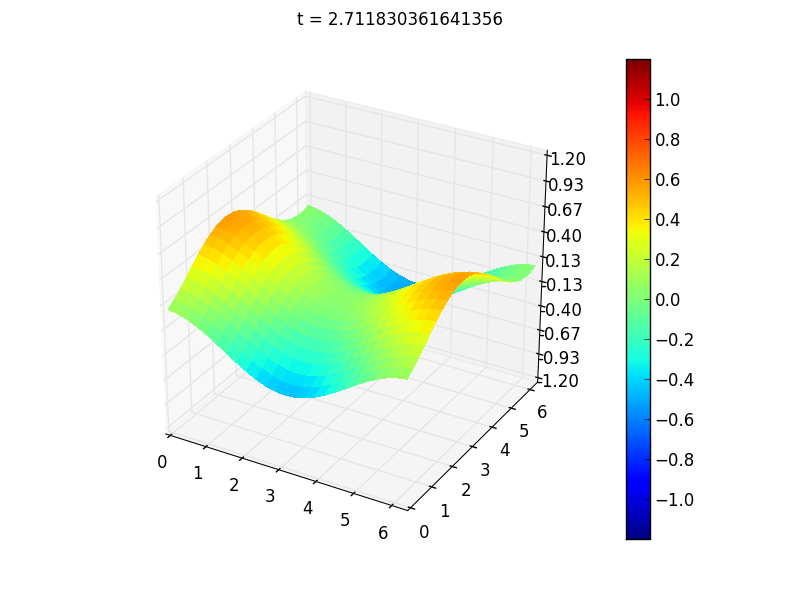
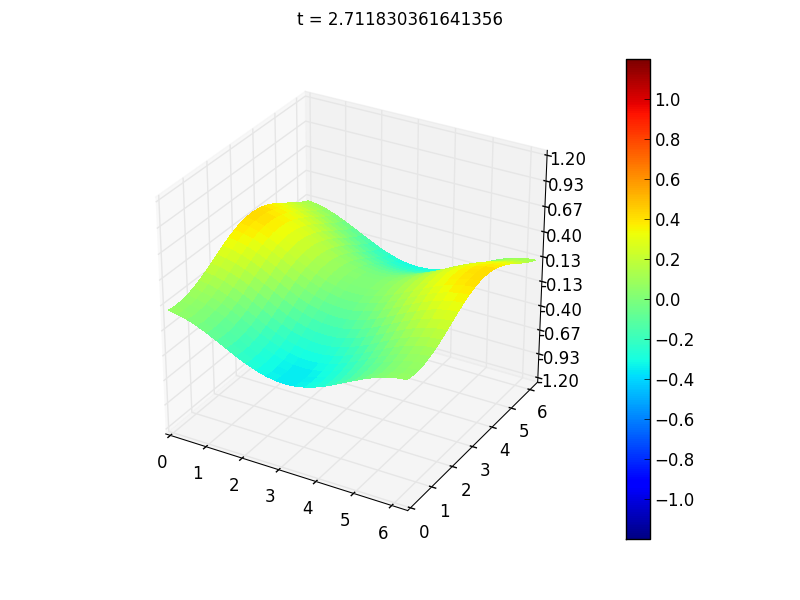
There is an error in the code

Changed region(s): [[0.2188, 0.33, 0.6875, 0.66]]

diff --git a/2DAdvDiffEq.py b/2DAdvDiffEq.py
@@ -16,6 +16,54 @@ import errno
 ## IC u[x,y,0]=cos(x)+sin(y) 
 
 ##
+##################################################################################################################
+############################			Useful functions		      ############################
+##################################################################################################################
+## Create a one row vector from the matrix u_arr
+def matrixToVec(u,nx,ny):
+	u_vec = [0 for i in xrange(ny*nx)]
+	for i in range(0,nx):
+		for j in range(0,ny):
+			u_vec[i*ny+j] = u[i][j]
+		
+    	return u_vec
+
+## Reverse
+def vecToMatrix(u,nx,ny):
+	Umat=[[0 for i in xrange(ny)] for i in xrange(nx)]
+	for i in range(0,nx):
+		for j in range(0,ny):
+			Umat[i][j]=u[i*ny+j]
+    	return Umat
+def iCond(x,y):
+    return .5*cos(x) + .5*cos(y)
+
+
+#plot figure
+def plotFig(u_arr,numb,t):
+	fig = plt.figure()
+	ax = fig.gca(projection='3d')
+	X = np.arange(0, L+dx, dx)
+	Y = np.arange(0, L+dy, dy)
+	X, Y = np.meshgrid(X, Y)
+	R = np.sqrt(X**2 + Y**2)
+	Z = np.sin(R)
+	v = np.linspace(-1.2, 1.2, 15, endpoint=True)
+	surf = ax.plot_surface(X, Y, u_arr,v, rstride=1, cstride=1,cmap=cm.jet,
+ 	       linewidth=0, antialiased=False, vmin=zmin, vmax=zmax)
+	ax.set_zlim(zmin, zmax)
+	ax.set_xlim(0, L)
+	ax.set_ylim(0, L)
+	ax.zaxis.set_major_locator(LinearLocator(10))
+	ax.zaxis.set_major_formatter(FormatStrFormatter('%.02f'))
+	
+	fig.colorbar(surf, ticks=[-1,-0.8,-0.6, -0.4,-0.2, 0, 0.2,0.4,0.6,0.8, 1])
+	fig.suptitle('t = '+ repr(t)) 
+	plt.savefig(directory +'/t'+'%0*d' % (3, numb)+'.png')
+
+##################################################################################################################
+############################			Useful functions		      ############################
+##################################################################################################################
 
 directory='result'
 if not os.path.exists(directory):
@@ -58,9 +106,6 @@ s = 'The resolution is ' + repr(dx) + 'in the x direction and ' + repr(dy) + 'in
 print s
 
 ## Initial conditions
-def iCond(x,y):
-    return .5*cos(x) + .5*cos(y)
-
 uval = iCond(0,0)
 u_arr = [[0 for i in xrange(Ny)] for i in xrange(Nx)]
 
@@ -70,80 +115,44 @@ for i in range(0,Nx):
     		uval = iCond(i*dx,j*dy)
     		u_arr[i][j] = uval
 
-#plot figure
-def plotFig(u_arr,numb,t):
-	fig = plt.figure()
-	ax = fig.gca(projection='3d')
-	X = np.arange(0, L+dx, dx)
-	Y = np.arange(0, L+dy, dy)
-	X, Y = np.meshgrid(X, Y)
-	R = np.sqrt(X**2 + Y**2)
-	Z = np.sin(R)
-	v = np.linspace(-1.2, 1.2, 15, endpoint=True)
-	surf = ax.plot_surface(X, Y, u_arr,v, rstride=1, cstride=1,cmap=cm.jet,
- 	       linewidth=0, antialiased=False, vmin=zmin, vmax=zmax)
-	ax.set_zlim(zmin, zmax)
-	ax.set_xlim(0, L)
-	ax.set_ylim(0, L)
-	ax.zaxis.set_major_locator(LinearLocator(10))
-	ax.zaxis.set_major_formatter(FormatStrFormatter('%.02f'))
-	
-	fig.colorbar(surf, ticks=[-1,-0.8,-0.6, -0.4,-0.2, 0, 0.2,0.4,0.6,0.8, 1])
-	fig.suptitle('t = '+ repr(t)) 
-	plt.savefig(directory +'/t'+'%0*d' % (3, numb)+'.png')
+
 
 ## Construction of the update matrix
 A = [[0 for i in xrange(Ny*Nx)] for i in xrange(Nx*Ny)]
 
-for i in range(0,Nx):
-	for j in range(0,Ny):      
-		A[i*Ny+j][i*Ny+j]=1-2.*(lx+ly)
-		A[i*Ny+j][i*Ny+(j+1)%Ny] = ly+ay
-		A[i*Ny+j][i*Ny+(j-1)%Ny] = ly-ay  
-		A[i*Ny+j][((i+1)%Nx)*Ny+j] = lx-ax
-		A[i*Ny+j][((i-1)%Nx)*Ny+j] = lx+ax
+#for i in range(0,Nx):
+#	for j in range(0,Ny):      
+#		A[i*Ny+j][i*Ny+j]=1-2.*(lx+ly)
+#		A[i*Ny+j][i*Ny+(j+1)%Ny] = ly+ay
+#		A[i*Ny+j][i*Ny+(j-1)%Ny] = ly-ay  
+#		A[i*Ny+j][((i+1)%Nx)*Ny+j] = lx-ax
+#		A[i*Ny+j][((i-1)%Nx)*Ny+j] = lx+ax
 
-print 'The matrix is generated'
+#print 'The matrix is generated'
 
-
-## Create a one row vector from the matrix u_arr
-def matrixToVec(u,nx,ny):
-	u_vec = [0 for i in xrange(ny*nx)]
-	for i in range(0,nx):
-		for j in range(0,ny):
-			u_vec[i*ny+j] = u[i][j]
-		
-    	return u_vec
-
-## Reverse
-def vecToMatrix(u,nx,ny):
-	Umat=[[0 for i in xrange(ny)] for i in xrange(nx)]
-	for i in range(0,nx):
-		for j in range(0,ny):
-			Umat[i][j]=u[i*ny+j]
-    	return Umat
 
 step=0
 stepSize = int(tend/dt/numbIm)
-s = 'The number of time step is  : ' + repr(stepSize)
-print s
-
-
 plotFig(u_arr,numb,t)
 s = 'Figure ' + repr(numb) + ' saved'
 print s
 #convert u_arr to u_vec
-u_vec = matrixToVec(u_arr,Nx,Ny)
+#u_vec = matrixToVec(u_arr,Nx,Ny)
 ##Time loop
 while t<=tend :
 	t=t+dt
 	#update u_vec
-	u_vec = np.dot(A,u_vec)
+	#u_vec = np.dot(A,u_vec)
+	u_old = u_arr
+	for i in range(0,Nx):
+			for j in range(0,Ny):
+				u_arr[i][j]=u_old[i][j]*(1.-2.*(lx + ly)) + u_old[(i-1)%Nx][j]*(lx+ax)+u_old[(i+1)%Nx][j]*(lx-ax)+u_old[i][(j-1)%Ny]*(lx+ay)+u_old[i][(j+1)%Ny]*(ly-ay)
+
 	step=step+1
 	if step%stepSize == 0:
         	step = 0
         	numb = numb+1
-        	u_arr = vecToMatrix(u_vec,Nx,Ny)
+        	#u_arr = vecToMatrix(u_vec,Nx,Ny)
         	plotFig(u_arr,numb,t)
         	s = 'Figure ' + repr(numb) + ' saved'
 		print s

diff --git a/2DAdvDiffEqConv.py b/2DAdvDiffEqConv.py
@@ -16,6 +16,10 @@ import errno
 ## IC u[x,y,0]=cos(x)+cos(y) 
 ## Convergence test
 
+##Physical parameter
+Pe = 1.0
+L=2*pi
+alpha = 0. #velocity ration between x an y direction chose alpha smaller than 1
 
 ##################################################################################################################
 ############################			Useful functions		      ############################
@@ -43,7 +47,7 @@ def errorL2(f,dx,dy,nx,ny):
         for i in range(1,int((nx-1)/2)):
 		for j in range(1,int((ny-1)/2)):
 			error = error + 4.*f[2*i][2*j]		
-	return error*1./9.*dx*dy
+	return (error*1./9.*dx*dy)**.5
 
 ## Initial conditions
 def iCond(x,y):
@@ -51,8 +55,8 @@ def iCond(x,y):
 
 
 #Exact solution
-def u_exact(x,y,t,alpha):
-	return 0.5*exp(-1/Pe*t)*cos(x-t)+0.5*exp(-1/Pe*t)*cos(y-alpha*t)
+def u_exact(x,y,t,Pe):
+	return exp(-t/Pe)*(.5*cos(x-t) + .5*cos(y))
 
 ## Create a one row vector from the matrix u_arr
 def matrixToVec(u,nx,ny):
@@ -74,15 +78,12 @@ def vecToMatrix(u,nx,ny):
 ############################				End			      ############################
 ##################################################################################################################
 #Simulation parameters
-tend = 0.5
-##Physical parameter
-Pe = 4.0
-L=2*pi
-alpha = 0. #velocity ration between x an y direction chose alpha smaller than 1
+tend = 0.05
+
 
 error=[]
 ## Series of N to try
-N = [25,50,100]
+N = [25,51,101]
 for k in range(0,3):
         t=0
 	## Discretization parameter 
@@ -92,18 +93,18 @@ for k in range(0,3):
 	dy=L/float(Ny-1)
 
 	## time parameters 
-	dt =.25*min(dx,dy)**2/(1./Pe + max(dx,dy))
+	dt =.01*dx**2
 	#to make sure tend is reached and stability ok
-	dt = tend/float(int(tend/dt)+1)
+	#dt = tend/float(int(tend/dt)+1)
 
 	## scheme parameters
 	# Laplacian terms
-	lx = 1./Pe*dt/dx/dx
-	ly=1./Pe*dt/dy/dy
+	lx =1.*dt/dx/dx
+	ly=1.*dt/dy/dy
 
 	# Advection terms
-	ax = dt/(2.*dx)	
-	ay = alpha*dt/(2.*dy)
+	ax = .5*dt/dx	
+	ay = .5*alpha*dt/dy
 
 	## Figure numbering 
 	numb = 0
@@ -115,31 +116,34 @@ for k in range(0,3):
     			u_arr[i][j] = uval
 
 	## Construction of the update matrix
-	A = [[0 for i in xrange(Ny*Nx)] for i in xrange(Nx*Ny)]
-	
-	for i in range(0,Nx):
-		for j in range(0,Ny):      
-			A[i*Ny+j][i*Ny+j]=1-2.*(lx+ly)
-			A[i*Ny+j][i*Ny+(j+1)%Ny] = ly+ay
-			A[i*Ny+j][i*Ny+(j-1)%Ny] = ly-ay  
-			A[i*Ny+j][((i+1)%Nx)*Ny+j] = lx-ax
-			A[i*Ny+j][((i-1)%Nx)*Ny+j] = lx+ax
+	#A = [[0 for i in xrange(Ny*Nx)] for i in xrange(Nx*Ny)]
+	#for i in range(0,Nx):
+	#	for j in range(0,Ny):      
+	#		A[i*Ny+j][i*Ny+j]=1-2.*(lx+ly)
+	#		A[i*Ny+j][i*Ny+(j+1)%Ny] = ly+ay
+	#		A[i*Ny+j][i*Ny+(j-1)%Ny] = ly-ay  
+	#		A[i*Ny+j][((i+1)%Nx)*Ny+j] = lx-ax
+	#		A[i*Ny+j][((i-1)%Nx)*Ny+j] = lx+ax
 	#convert u_arr to u_vec
-	u_vec = matrixToVec(u_arr,Nx,Ny)
+	#u_vec = matrixToVec(u_arr,Nx,Ny)
 	##Time loop
 	while t<tend-1e-6 :
 		t=t+dt
 		print repr(t)
 		#update u_vec
-		u_vec = np.dot(A,u_vec)
+		#u_vec = np.dot(A,u_vec)
+		u_old = u_arr
+		for i in range(0,Nx):
+			for j in range(0,Ny):
+				u_arr[i][j]=u_old[i][j]*(1.-2.*(lx + ly)) + u_old[(i-1)%Nx][j]*(lx+ax)+u_old[(i+1)%Nx][j]*(lx-ax)+u_old[i][(j-1)%Ny]*(lx+ay)+u_old[i][(j+1)%Ny]*(ly-ay)
 
-	u_arr=vecToMatrix(u_vec,Nx,Ny)
+	#u_arr=vecToMatrix(u_vec,Nx,Ny)
 	##Calculate the error
 	
 	f = [[0 for i in xrange(Ny)] for i in xrange(Nx)]
 	for i in range(0,Nx):
 		for j in range(0,Ny):
-			f[i][j] = u_arr[i][j]-u_exact(i*dx,j*dy,t,alpha)
+			f[i][j] =u_arr[i][j]- u_exact(i*dx,j*dy,t,Pe)
 			f[i][j]=f[i][j]**2
 
         err=errorL2(f,dx,dy,Nx,Ny)
